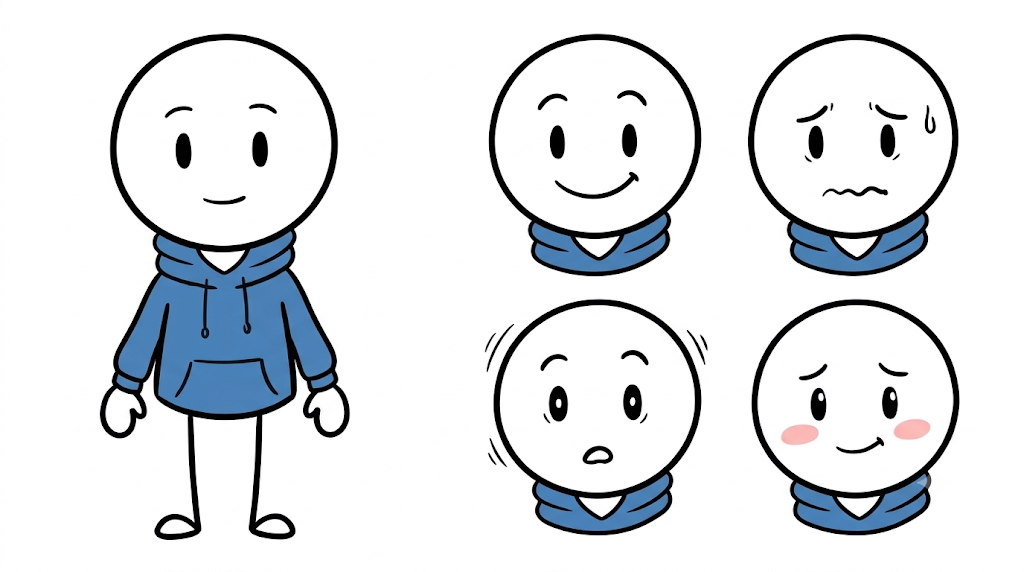
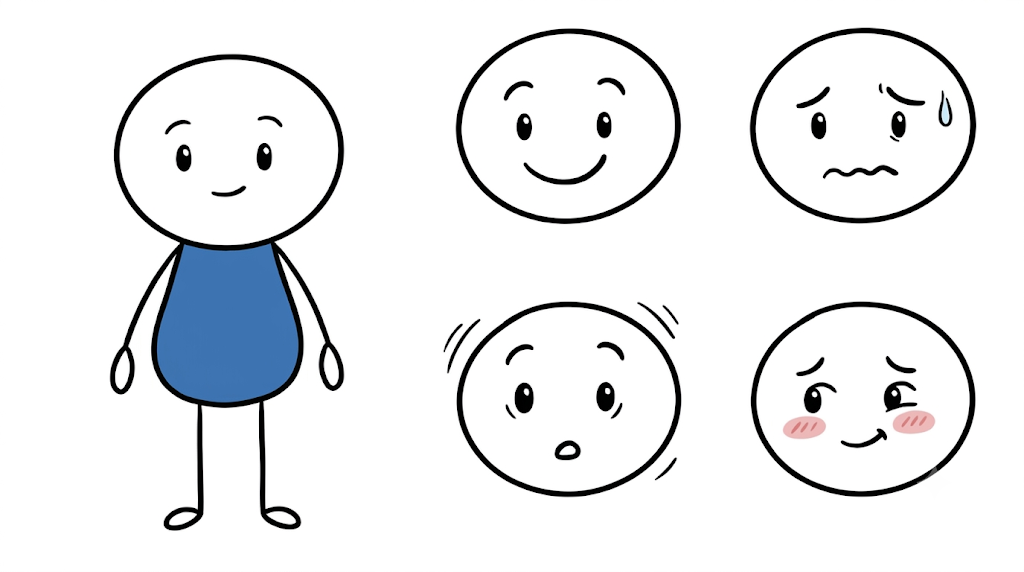
docs(nhân vật): đổi Max sang thân khối xanh, tay chân nét que
- Mẫu mới kho-mau/_mau-nhan-vat/max-sheet.png: đầu bầu dục trắng, thân một
  khối xanh #3D73B1 hình quả trứng (không chi tiết quần áo), tay và chân đều
  là nét que, bàn tay / bàn chân bầu dục trắng
- Bỏ bản hoodie xanh #4A81B7: tay áo khó làm cử động; tay que để code vẽ và
  xoay khớp trực tiếp
- Cập nhật gui-muse/CHARACTER-BRIEF.md, docs/04, docs/10 (bộ phận ghép chỉ
  còn thân cần ảnh), docs/13, CLAUDE.md theo thiết kế mới

diff --git a/docs/13-KE-HOACH-KHO-HINH.md b/docs/13-KE-HOACH-KHO-HINH.md
@@ -20,7 +20,7 @@ Số liệu nền (đếm từ 2 kịch bản "fortune tellers", ~10 phút, ~120
 4. Dán **khối lô** (mục 4). Muse vẽ lần lượt **mỗi lần trả lời một ảnh**, ghi dòng `FILE: ...` trước ảnh.
 5. Sau mỗi ảnh gõ:
    - `ok` → ảnh đạt, Muse làm mục kế tiếp;
-   - `redo: <lý do ngắn>` → vẽ lại mục đó (vd. `redo: shadow under feet`, `redo: hoodie must be blue #4A81B7`);
+   - `redo: <lý do ngắn>` → vẽ lại mục đó (vd. `redo: shadow under feet`, `redo: body must be plain blue #3D73B1`);
    - `skip` → bỏ qua, ghi lại để làm sau.
 6. Tải ảnh về (bản đầy đủ), **đổi tên đúng dòng `FILE:`** (chỉ lấy phần tên, không có thư mục), lưu vào:
    - nhân vật → `kho-mau/_cho-xu-ly/nhan-vat/`
@@ -46,8 +46,8 @@ PROTOCOL
 
 STYLE BIBLE (never break)
 - Flat 2D vector cartoon, thick uniform black outlines (same weight everywhere), flat colors, NO gradients, NO shading, NO shadows (not even under feet), NO texture, NO paper grain.
-- Palette: blue #4A81B7 (reserved for Max's hoodie only), navy #1F2A44, teal #2EC4B6, orange #FF7A1A, mustard #F2B33D, coral #E8735A, off-white #F5F1E8, black #111111, plus muted accents: soft green #4CAF50, soft red #E53935, warm yellow #FFC93C, soft pink #F4A7B9, light grey #BDBDBD, charcoal #4A4A4A, beige #E8D5B5.
-- Characters: clean stick figures with a big white circle head (about 40% of height, no hair unless specified, no ears, no nose), small solid black vertical oval eyes, thin curved eyebrows, one-line mouth, white mitten hands, thin black stick legs, small white oval shoes. Always match the attached character sheet exactly.
+- Palette: blue #3D73B1 (reserved for Max's body only), navy #1F2A44, teal #2EC4B6, orange #FF7A1A, mustard #F2B33D, coral #E8735A, off-white #F5F1E8, black #111111, plus muted accents: soft green #4CAF50, soft red #E53935, warm yellow #FFC93C, soft pink #F4A7B9, light grey #BDBDBD, charcoal #4A4A4A, beige #E8D5B5.
+- Characters: very simple stick figures: a big white oval head (about 40% of height, no hair unless specified, no ears, no nose, no neck), small solid black vertical oval eyes, thin curved eyebrows, one-line mouth, one plain colored rounded egg-shaped body, thin black stick arms and legs, small white oval hands and feet. Always match the attached character sheet exactly.
 - Characters, props, charts, symbols: ONE subject per image, centered, full subject visible, generous empty margin, PURE WHITE background #FFFFFF, square 1:1.
 - Backgrounds (only when the batch says BACKGROUND): wide 16:9, off-white #F5F1E8 base, thin light grey #BDBDBD outlines, very sparse details, empty center and lower half for characters, no people.
 - NO text, letters, numbers, logos, brand names, flags, watermarks or borders anywhere. Screens, signs, papers, labels stay blank or use simple lines/shapes.
@@ -61,32 +61,32 @@ Reply "ready" and wait for the first batch.
 
 ## 2b. Ảnh mẫu nhân vật — định dạng "bảng nhân vật"
 
-Mọi nhân vật làm theo **đúng định dạng bảng dưới đây**: ảnh ngang 16:9, **bên trái một hình toàn thân đứng thẳng nhìn thẳng**, **bên phải lưới 2×2 bốn đầu biểu cảm** có cổ áo, nền trắng, không chữ. Bảng này là "giấy khai sinh" của nhân vật: làm một lần, chốt, rồi **đính kèm vào mọi lần vẽ sau** để Muse giữ đúng mặt, áo, nét vẽ.
+Mọi nhân vật làm theo **đúng định dạng bảng dưới đây**: ảnh ngang 16:9, **bên trái một hình toàn thân đứng thẳng nhìn thẳng**, **bên phải lưới 2×2 bốn đầu biểu cảm** (chỉ đầu, không thân), nền trắng, không chữ. Bảng này là "giấy khai sinh" của nhân vật: làm một lần, chốt, rồi **đính kèm vào mọi lần vẽ sau** để Muse giữ đúng mặt, thân, nét vẽ.
 
 **Max đã chốt (2026-11-14)** — `kho-mau/_mau-nhan-vat/max-sheet.png` (bản sao gửi Muse: `gui-muse/IMAGE-1-max-sheet.png`):
 
 ![Max — bảng nhân vật đã chốt](../kho-mau/_mau-nhan-vat/max-sheet.png)
 
 Đặc điểm (đã chép vào khối `CHARACTER SPEC` bên dưới):
-- **Đầu**: hình tròn trắng to, viền đen dày, khoảng 40% chiều cao, rộng hơn vai; **không tóc, không tai, không mũi**.
+- **Đầu**: bầu dục trắng to (hơi bè ngang), viền đen mảnh, khoảng 40% chiều cao, rộng hơn thân; **không tóc, không tai, không mũi, không cổ**.
 - **Mặt**: mắt là hai bầu dục đen đặc nhỏ dựng đứng; lông mày là nét cong mảnh; miệng một nét.
-- **Biểu cảm thêm**: má hồng bầu dục (ngượng), giọt mồ hôi viền đen (lo), nét rung cong hai bên đầu (sốc).
-- **Áo**: hoodie xanh `#4A81B7` (đo từ ảnh), mũ gập quanh cổ như cổ áo, **cổ chữ V trắng**, **hai dây rút**, túi kangaroo, gấu và cổ tay bo.
-- **Tay chân**: tay găng trắng có ngón cái; chân là hai nét que đen thẳng; giày bầu dục trắng viền đen.
-- **Nét vẽ**: viền đen dày, sạch, đều; màu phẳng; không bóng.
+- **Biểu cảm thêm**: má hồng bầu dục `#EDBBBC` (ngượng), giọt mồ hôi xanh nhạt `#C9E8FA` (lo), nét rung cong hai bên đầu (sốc).
+- **Thân**: một khối xanh `#3D73B1` (đo từ ảnh) bo tròn hình quả trứng / quả lê — hẹp ở chỗ nối đầu, tròn bè ở dưới; khoảng 1/3 chiều cao; **không chi tiết quần áo**.
+- **Tay chân**: đều là **nét que đen mảnh**; tay mọc từ hai bên phía trên thân; bàn tay là bầu dục trắng nhỏ dựng đứng, bàn chân là bầu dục trắng nằm ngang, viền đen.
+- **Nét vẽ**: viền đen mảnh-vừa, sạch, đều; màu phẳng; không bóng.
 
-Màu xanh `#4A81B7` dành riêng cho áo Max — nhân vật khác không mặc.
+Màu xanh `#3D73B1` dành riêng cho thân Max — nhân vật khác không dùng. Tay chân que nên code vẽ và xoay khớp dễ (`docs/10`).
 
 Khối mô tả dán kèm **mọi** lô có Max (đặt ngay dưới dòng `BATCH ...`):
 
 ```text
 CHARACTER SPEC — MAX (match the attached sheet exactly):
-clean stick figure. Head: a big perfect white circle with a thick black outline, about 40% of total height, wider than the shoulders. NO hair, NO ears, NO nose.
+very simple stick figure. Head: a big white oval (slightly wider than tall) with a clean black outline, about 40% of total height, wider than the body. NO hair, NO ears, NO nose, NO neck.
 Eyes: two small solid black vertical ovals. Eyebrows: short thin curved black strokes. Mouth: one thin black line.
-Emotion extras: soft pink oval blush (shy), a small outlined sweat drop (anxious), short curved shake lines beside the head (shocked).
-Hoodie: medium blue #4A81B7, hood folded around the neck like a collar, small white V neckline, two drawstrings, front kangaroo pocket, ribbed hem and cuffs.
-Hands: white rounded mitten hands with a small thumb. Legs: two thin straight black stick lines. Feet: small white oval shoes.
-Thick clean uniform black outlines, flat colors, no shading, no shadows. Every white area enclosed by a closed black outline.
+Emotion extras: soft pink oval blush (shy), a small light-blue sweat drop (anxious), short curved shake lines beside the head (shocked).
+Body: one plain blue #3D73B1 rounded egg / pear shape (narrow at the top, round at the bottom), about 1/3 of the height, NO clothing details.
+Arms: two thin black stick lines from the upper sides of the body; hands: small white vertical ovals. Legs: two thin black stick lines; feet: small white horizontal ovals.
+Clean uniform black outlines, flat colors, no shading, no shadows. Every white area enclosed by a closed black outline.
 ```
 
 Mô tả đầy đủ, dạng tài liệu gửi kèm ảnh: `gui-muse/CHARACTER-BRIEF.md`.
@@ -135,25 +135,25 @@ Redraw only the LEFT full-body Max from the attached sheet as a single image, id
 1. FILE: nhan-vat/max__goc__dung.png
 ```
 
-**0B — Bảng biểu cảm Max** (đính kèm `max-sheet.png`, dán khối `CHARACTER SPEC — MAX`). Mỗi bảng là lưới 2×2 đầu có cổ áo hoodie xanh, giống nửa phải của `max-sheet.png`, đủ 12 biểu cảm còn lại. Lô 1–2 dùng các bảng này làm tham chiếu biểu cảm.
+**0B — Bảng biểu cảm Max** (đính kèm `max-sheet.png`, dán khối `CHARACTER SPEC — MAX`). Mỗi bảng là lưới 2×2 chỉ có đầu, giống nửa phải của `max-sheet.png`, đủ 12 biểu cảm còn lại. Lô 1–2 dùng các bảng này làm tham chiếu biểu cảm.
 
 ```text
-BATCH 0B — EXPRESSION SHEETS (wide 16:9, pure white background, no text, no labels). Each sheet is a 2x2 grid of head close-ups of the SAME Max as the attached sheet (white circle head, blue hoodie collar visible), exactly like the right side of the attached sheet: evenly spaced, same size, same framing. Expressions clear and readable using eyebrows, eye size, mouth and small extras (sweat drops, tears, sparkles, puffs).
+BATCH 0B — EXPRESSION SHEETS (wide 16:9, pure white background, no text, no labels). Each sheet is a 2x2 grid of head close-ups of the SAME Max as the attached sheet (white oval head only, no body), exactly like the right side of the attached sheet: evenly spaced, same size, same framing. Expressions clear and readable using eyebrows, eye size, mouth and small extras (sweat drops, tears, sparkles, puffs).
 1. FILE: max-bieu-cam-1.png — top-left greedy (eyes as small sparkles, eager wide grin) · top-right panicked (bigger eyes, mouth open screaming, sweat drops flying) · bottom-left regretful (eyes looking down, sad mouth) · bottom-right confident (smirk, one eyebrow raised)
-2. FILE: max-bieu-cam-2.png — top-left confused (one eyebrow up, wavy mouth, head tilted) · top-right thinking (eyes up to the side, a white mitten hand on the chin) · bottom-left sad (droopy eyebrows, downturned mouth, one tear) · bottom-right angry (sharp slanted eyebrows, gritted-teeth line, small steam puff)
+2. FILE: max-bieu-cam-2.png — top-left confused (one eyebrow up, wavy mouth, head tilted) · top-right thinking (eyes looking up to the side, small flat mouth) · bottom-left sad (droopy eyebrows, downturned mouth, one tear) · bottom-right angry (sharp slanted eyebrows, gritted-teeth line, small steam puff)
 3. FILE: max-bieu-cam-3.png — top-left relieved (eyes closed as curves, gentle smile, small exhale puff) · top-right smug (half-closed eyes, one-sided smirk) · bottom-left excited (sparkling eyes, huge open smile) · bottom-right bored (half-closed flat eyes, flat mouth)
 ```
 
 `max-sheet.png` đã có 4 biểu cảm: vui (`vui`), lo âu với miệng lượn sóng + giọt mồ hôi (`lo-lang`), sốc (`soc`), ngượng má hồng. `so-hai` dùng mặt `lo-lang` đẩy mạnh hơn (mắt to hơn, người co lại).
 
-**0C — Bảng nhân vật phụ** (mỗi nhân vật một cuộc trò chuyện; đính kèm `max-sheet.png` làm chuẩn phong cách, tuyệt đối không mặc hoodie xanh):
+**0C — Bảng nhân vật phụ** (mỗi nhân vật một cuộc trò chuyện; đính kèm `max-sheet.png` làm chuẩn phong cách, tuyệt đối không dùng thân xanh):
 
 ```text
-BATCH 0C — CHARACTER SHEET for a NEW character, in exactly the same style and the SAME LAYOUT as the attached Max sheet (wide 16:9: LEFT full body standing facing the viewer, arms relaxed; RIGHT 2x2 head close-up grid with collar visible: happy, anxious, shocked, confused). Same stick-figure build, same big white circle head, same small black oval eyes and thin eyebrows, same white mitten hands, stick legs and white oval shoes, same line weight. Pure white background, no text, no labels. The new character must look clearly different from Max at a glance and must NOT wear the blue #4A81B7 hoodie.
+BATCH 0C — CHARACTER SHEET for a NEW character, in exactly the same style and the SAME LAYOUT as the attached Max sheet (wide 16:9: LEFT full body standing facing the viewer, arms relaxed; RIGHT 2x2 head-only close-up grid: happy, anxious, shocked, confused). Same build: big white oval head, same small black oval eyes and thin eyebrows, one plain colored rounded egg-shaped body, thin stick arms and legs, small white oval hands and feet, same line weight. Pure white background, no text, no labels. The new character must look clearly different from Max at a glance and its body must NOT be blue #3D73B1.
 ```
 Rồi chọn **một** dòng dưới (mỗi lần một nhân vật):
 ```text
-1. FILE: brainy-sheet.png — Brainy, Max's inner voice: a small soft-pink #F4A7B9 cartoon brain with a few fold lines instead of a round head, the same small oval eyes and thin eyebrows, thin black stick arms and legs with white mitten hands. Curious, slightly mischievous. Clearly a cartoon brain, not a doctor (no glasses, no lab coat).
+1. FILE: brainy-sheet.png — Brainy, Max's inner voice: a small soft-pink #F4A7B9 cartoon brain with a few fold lines instead of a round head, the same small oval eyes and thin eyebrows, thin black stick arms and legs with small white oval hands and feet. Curious, slightly mischievous. Clearly a cartoon brain, not a doctor (no glasses, no lab coat).
 2. FILE: ban-sheet.png — Sam, Max's friend: a small tuft of curly black hair on top of the round head, mustard #F2B33D crew-neck sweater with no hood.
 3. FILE: sep-sheet.png — the boss: slightly taller, neat grey hair at the sides of the round head, charcoal #4A4A4A blazer over a white shirt with a soft red #E53935 tie.
 4. FILE: nguoi-hen-sheet.png — Ava, Max's date / partner: a simple black ponytail on the round head, coral #E8735A cardigan.
@@ -165,7 +165,7 @@ Chốt từng bảng xong thì xin ảnh đơn 1:1 toàn thân: `nhan-vat/brainy
 Chia làm 4 cuộc trò chuyện theo bảng biểu cảm: mục 1, 3, 8, 14 đi với `max-sheet.png`; mục 2, 4, 5, 6 với `max-bieu-cam-1.png`; mục 7, 9, 10, 11 với `max-bieu-cam-2.png`; mục 12, 13, 15, 16 với `max-bieu-cam-3.png`. Dán khối `CHARACTER SPEC — MAX` dưới dòng `BATCH`.
 
 ```text
-BATCH 1 — Max, same character as the attached sheet; copy the matching face from the attached expression sheet (same white circle head, small oval eyes, blue #4A81B7 hoodie, mitten hands, stick legs, white oval shoes). Pose for all: standing, facing the viewer, arms relaxed (arms may move only if the expression needs it). The face is minimal, so push each emotion with body language too.
+BATCH 1 — Max, same character as the attached sheet; copy the matching face from the attached expression sheet (same white oval head, small oval eyes, plain blue #3D73B1 egg-shaped body, stick arms and legs, white oval hands and feet). Pose for all: standing, facing the viewer, arms relaxed (arms may move only if the expression needs it). The face is minimal, so push each emotion with body language too.
 1. FILE: nhan-vat/max__vui__dung.png — happy, big simple smile
 2. FILE: nhan-vat/max__tham-lam__dung.png — greedy, wide hungry grin, sparkly eyes, leaning forward
 3. FILE: nhan-vat/max__so-hai__dung.png — fearful, eyes wide, small wavy open mouth, shrinking back
@@ -265,7 +265,7 @@ BATCH 3D — Ava, same character as the attached Ava reference.
 5. FILE: nhan-vat/nguoi-hen__hao-hung__dung.png
 6. FILE: nhan-vat/nguoi-hen__vui__ngoi.png — sitting at a small café table, smiling
 
-BATCH 3E — crowds, same stick-figure style as the attached Max sheet (white circle heads, small oval eyes, stick legs). 7 simple background adults, a few with simple hair shapes, muted tops (grey, beige, olive, charcoal, mustard, teal — NO blue #4A81B7). Wide 16:9 for these five.
+BATCH 3E — crowds, same stick-figure style as the attached Max sheet (white oval heads, small oval eyes, rounded egg-shaped bodies, stick arms and legs). 7 simple background adults, a few with simple hair shapes, bodies in muted colors (grey, beige, olive, charcoal, mustard, teal — NO blue #3D73B1). Wide 16:9 for these five.
 1. FILE: nhan-vat/dam-dong__hao-hung__chay.png — excited, all running to the right
 2. FILE: nhan-vat/dam-dong__hoang-loan__bo-chay.png — panicked, running away to the left
 3. FILE: nhan-vat/dam-dong__hao-hung__nhin-len.png — excited, all looking up at the same point
@@ -583,7 +583,7 @@ Gợi ý lô theo nhóm chủ đề (`docs/05` mục danh sách 30 chủ đề) 
 
 | Kiểm | Lỗi hay gặp → câu `redo:` |
 |---|---|
-| Đúng nhân vật | `redo: hoodie must be blue #4A81B7 / head must be a big white circle, about 40% of height / no hair, no nose` |
+| Đúng nhân vật | `redo: body must be one plain blue #3D73B1 egg shape / arms must be stick lines / head must be a big white oval, about 40% of height / no hair, no nose` |
 | Nền trắng sạch, không bóng | `redo: pure white background, no shadow under feet` |
 | Không chữ / số / logo | `redo: remove all text and numbers` |
 | Nét đều, viền kín | `redo: uniform thick outlines, close all outlines` |

diff --git a/gui-muse/CHARACTER-BRIEF.md b/gui-muse/CHARACTER-BRIEF.md
@@ -1,7 +1,7 @@
-# CHARACTER BRIEF — "Max", the blue-hoodie stick figure (original YouTube psychology animation)
+# CHARACTER BRIEF — "Max", the blue-body stick figure (original YouTube psychology animation)
 
 Attached with this document:
-- **IMAGE-1-max-sheet.png** — the APPROVED character sheet of Max. This is the single source of truth: copy it exactly (head, face, hoodie, hands, legs, feet, line style).
+- **IMAGE-1-max-sheet.png** — the APPROVED character sheet of Max. This is the single source of truth: copy it exactly (head, face, blue body, stick arms and legs, hands, feet, line style).
 
 You are the illustrator for an original YouTube channel of animated psychology explainers for ADULTS (work, money, relationships, habits, social media). Read this whole brief, then reply "ready" and wait. I will ask for one step at a time.
 
@@ -21,18 +21,19 @@ You are the illustrator for an original YouTube channel of animated psychology e
 
 ## 2. Character spec — MAX (exactly as IMAGE-1)
 
-An ordinary adult office worker drawn as a clean, friendly stick figure. Simple for clarity — not a kids' character.
+An ordinary adult office worker drawn as a very simple, friendly stick figure. Simple for clarity — not a kids' character.
 
-- **Head:** a big perfect circle, pure white fill, thick black outline. The head is about 40% of his total height and clearly wider than his shoulders. **No hair, no ears, no nose.**
-- **Eyes:** two small solid black vertical ovals, set a little apart, slightly above the middle of the face.
+- **Head:** a big white oval, slightly wider than tall, thin clean black outline. About 40% of his total height and clearly wider than his body. **No hair, no ears, no nose, no neck.**
+- **Eyes:** two small solid black vertical ovals, set a little apart, around the middle of the face.
 - **Eyebrows:** short thin black curved strokes above the eyes — they carry most of the emotion.
-- **Mouth:** one thin black line (a small curve when calm, a wide curve when happy, a wavy line when anxious, a small open oval when shocked).
-- **Extras for emotions:** soft pink oval blush on both cheeks (shy / embarrassed), a small sweat drop with a black outline (anxious), short curved shake lines beside the head (shocked).
-- **Hoodie (signature):** medium blue **`#4A81B7`** hoodie, thick black outline, the hood folded around the neck like a collar, a small **white V** at the neckline, **two drawstrings**, a front **kangaroo pocket**, a ribbed hem and cuffs. The hoodie covers the torso and arms.
-- **Hands:** white rounded mitten hands with a small thumb, black outline.
-- **Legs:** two thin straight black stick lines coming out of the hoodie hem.
-- **Feet:** small white rounded oval shoes with a black outline.
-- **Line style:** thick, clean, uniform black outlines; flat colors only (white, the blue hoodie, black, pink blush). No shading, no gradients, no shadows, no texture.
+- **Mouth:** one thin black line (small curve when calm, wide curve when happy, wavy line when anxious, small open oval when shocked).
+- **Emotion extras:** soft pink oval blush on both cheeks (shy / embarrassed), a small light-blue sweat drop with a thin outline (anxious), short curved shake lines beside the head (shocked).
+- **Body (signature):** one solid **blue `#3D73B1`** rounded shape, like an egg / pear — narrower at the top where it meets the head, wider and round at the bottom. Thin black outline. **No clothing details** (no collar, no pocket, no buttons). About 1/3 of his height, narrower than the head.
+- **Arms:** two **thin black stick lines** starting from the upper sides of the blue body, same weight as the legs.
+- **Hands:** small white vertical ovals with a thin black outline (no fingers).
+- **Legs:** two thin straight black stick lines from the bottom of the body.
+- **Feet:** small white horizontal ovals with a thin black outline.
+- **Line style:** thin-to-medium clean black lines, all the same weight; flat colors only (white, the blue body, black, pink blush, light-blue sweat). No shading, no gradients, no shadows, no texture.
 
 ---
 
@@ -42,7 +43,7 @@ An ordinary adult office worker drawn as a clean, friendly stick figure. Simple 
 For animation, the character must be on an empty background so it can be removed automatically.
 - **Square 1:1, pure white background `#FFFFFF`**, one character alone, full body, centered, generous empty margin.
 - **No shadow, no ground line, no scene, no texture.**
-- Every white area (head, hands, feet, V neckline) must be fully enclosed by a closed black outline so it never merges with the white background.
+- Every white area (head, hands, feet) must be fully enclosed by a closed black outline so it never merges with the white background.
 - Props he holds: same clean line style, flat colors, simple and readable.
 
 ### B. BACKGROUNDS (only when I say BACKGROUND)
@@ -51,7 +52,7 @@ For animation, the character must be on an empty background so it can be removed
 
 ### Rules for every image
 - **No text, letters, numbers, labels, logos, watermarks or borders.** Screens, signs and papers stay blank or use simple shapes.
-- Colors: the blue `#4A81B7` is **reserved for Max's hoodie** — no other character wears it. Other colors to use freely: navy `#1F2A44`, teal `#2EC4B6`, orange `#FF7A1A`, mustard `#F2B33D`, coral `#E8735A`, soft green `#4CAF50`, soft red `#E53935`, soft pink `#F4A7B9`, light grey `#BDBDBD`, charcoal `#4A4A4A`, beige `#E8D5B5`, black, white.
+- Colors: the blue `#3D73B1` is **reserved for Max's body** — no other character uses it. Other colors to use freely: navy `#1F2A44`, teal `#2EC4B6`, orange `#FF7A1A`, mustard `#F2B33D`, coral `#E8735A`, soft green `#4CAF50`, soft red `#E53935`, soft pink `#F4A7B9`, light grey `#BDBDBD`, charcoal `#4A4A4A`, beige `#E8D5B5`, black, white.
 - Adult everyday world. No gore, no real people, no existing characters or brands.
 
 ---
@@ -59,8 +60,8 @@ For animation, the character must be on an empty background so it can be removed
 ## 4. Sheet format (reference sheets only — same layout as IMAGE-1)
 
 Wide **16:9**, pure white background, no text:
-- **LEFT:** the character full body, standing, facing the viewer, arms relaxed, friendly neutral face. Only ONE full-body figure.
-- **RIGHT:** a **2×2 grid** of head close-ups with the collar visible (like IMAGE-1), all the same size, evenly spaced.
+- **LEFT:** the character full body, standing, facing the viewer, arms hanging relaxed, friendly neutral face. Only ONE full-body figure.
+- **RIGHT:** a **2×2 grid of head-only close-ups** (no body, like IMAGE-1), all the same size, evenly spaced.
 
 ---
 
@@ -69,28 +70,28 @@ Wide **16:9**, pure white background, no text:
 ### STEP 1 — Max single master image
 `FILE: max__goc__dung.png` — only the LEFT full-body Max from IMAGE-1, redrawn as a CHARACTER CUT-OUT (section 3A). Identical design.
 
-### STEP 2 — Max expression sheets (16:9, 2×2 head close-ups with the blue hoodie collar, exactly like the right side of IMAGE-1; no full-body figure)
-- `FILE: max-bieu-cam-1.png` — greedy (eyes as small sparkles, eager wide grin) · panicked (eyes bigger, mouth open screaming, sweat drops flying) · regretful (eyes looking down, sad mouth, eyebrows slanted down) · confident (smirk, one eyebrow raised)
-- `FILE: max-bieu-cam-2.png` — confused (one eyebrow up, wavy mouth, head slightly tilted) · thinking (eyes looking up to the side, one mitten hand on the chin) · sad (droopy eyebrows, downturned mouth, one tear) · angry (sharp slanted eyebrows, gritted-teeth line, small steam puff)
+### STEP 2 — Max expression sheets (16:9, 2×2 head-only close-ups exactly like the right side of IMAGE-1; no body)
+- `FILE: max-bieu-cam-1.png` — greedy (eyes as small sparkles, eager wide grin) · panicked (bigger eyes, mouth open screaming, sweat drops flying) · regretful (eyes looking down, sad mouth) · confident (smirk, one eyebrow raised)
+- `FILE: max-bieu-cam-2.png` — confused (one eyebrow up, wavy mouth, head tilted) · thinking (eyes looking up to the side, small flat mouth) · sad (droopy eyebrows, downturned mouth, one tear) · angry (sharp slanted eyebrows, gritted-teeth line, small steam puff)
 - `FILE: max-bieu-cam-3.png` — relieved (eyes closed as curves, gentle smile, small exhale puff) · smug (half-closed eyes, one-sided smirk) · excited (sparkling eyes, huge open smile) · bored (half-closed flat eyes, flat mouth)
 
 (Happy, anxious, shocked and embarrassed already exist in IMAGE-1.)
 
-### STEP 3 — Supporting characters (same stick build, same round white head and face style, same line weight, sheet format; **must NOT wear the blue hoodie**)
+### STEP 3 — Supporting characters (same build: big white oval head, same face style, one colored rounded body shape, stick arms and legs, white oval hands and feet, same line weight; sheet format; **body must NOT be blue `#3D73B1`**)
 Right grid for each: happy · anxious · shocked · confused.
-- `FILE: brainy-sheet.png` — **Brainy**, Max's inner voice: a small soft-pink `#F4A7B9` cartoon brain with a few fold lines instead of a round head, the same small oval eyes and thin eyebrows, thin black stick arms and legs with white mitten hands. Clearly a cartoon brain — not a doctor (no glasses, no lab coat).
-- `FILE: ban-sheet.png` — **Sam**, Max's friend: same build, a small tuft of curly black hair on top of the round head, a mustard `#F2B33D` crew-neck sweater (no hood), white mitten hands, stick legs, white shoes.
-- `FILE: sep-sheet.png` — **the boss**: same build but slightly taller, neat grey hair at the sides of the round head, charcoal `#4A4A4A` blazer over a white shirt with a soft red `#E53935` tie.
-- `FILE: nguoi-hen-sheet.png` — **Ava**, Max's date / partner: same build, a simple black ponytail on the round head, a coral `#E8735A` cardigan.
+- `FILE: brainy-sheet.png` — **Brainy**, Max's inner voice: a small soft-pink `#F4A7B9` cartoon brain with a few fold lines as the whole head-and-body, the same small oval eyes and thin eyebrows, thin stick arms and legs with white oval hands and feet. Clearly a cartoon brain — not a doctor (no glasses, no lab coat).
+- `FILE: ban-sheet.png` — **Sam**, Max's friend: mustard `#F2B33D` body, a small tuft of curly black hair on top of the oval head.
+- `FILE: sep-sheet.png` — **the boss**: charcoal `#4A4A4A` body, slightly taller, a thin soft red `#E53935` tie drawn on the body, neat grey hair at the sides of the head.
+- `FILE: nguoi-hen-sheet.png` — **Ava**, Max's date / partner: coral `#E8735A` body, a simple black ponytail on the head.
 
 After each approved sheet: the LEFT full-body figure as a CHARACTER CUT-OUT — `brainy__goc__dung.png`, `ban__goc__dung.png`, `sep__goc__dung.png`, `nguoi-hen__goc__dung.png`.
 
 ### STEP 4 — Max production cut-outs (section 3A)
-Filename pattern: `max__<expression>__<pose>.png`. Copy the face from IMAGE-1 or the matching expression sheet.
+Filename pattern: `max__<expression>__<pose>.png`. Copy the face from IMAGE-1 or the matching expression sheet. The face is minimal, so show the emotion with the arms and body too.
 
 Expressions: `vui` happy · `tham-lam` greedy · `so-hai` scared · `hoang-loan` panicked · `hoi-han` regretful · `tu-tin` confident · `boi-roi` confused · `soc` shocked · `suy-nghi` thinking · `buon` sad · `gian` angry · `nhe-nhom` relieved · `dac-y` smug · `lo-lang` anxious · `hao-hung` excited · `chan` bored.
 
-Poses: `dung` standing, facing the viewer · `ngoi-may-tinh` sitting on a simple chair at a simple desk with an open laptop · `cam-dien-thoai` holding a smartphone in front of the face (blank screen or a simple line chart) · `di-bo` walking to the right, side view · `chi-tay` pointing to the right with one arm fully extended · `om-dau` both hands holding the head · `ngoi` sitting on a simple chair or sofa.
+Poses: `dung` standing, facing the viewer · `ngoi-may-tinh` sitting on a simple chair at a simple desk with an open laptop · `cam-dien-thoai` holding a smartphone in front of the face (blank screen or a simple line chart) · `di-bo` walking to the right, side view · `chi-tay` pointing to the right with one stick arm fully extended · `om-dau` both hands holding the head · `ngoi` sitting on a simple chair or sofa.
 
 I will send the exact list of filenames to draw.
 
@@ -98,8 +99,9 @@ I will send the exact list of filenames to draw.
 
 ## 6. Common fixes I may ask for
 
-- `redo: hoodie must be blue #4A81B7 with hood collar, white V, two drawstrings, kangaroo pocket`
-- `redo: head must be a big white circle, about 40% of height` · `redo: no hair, no ears, no nose`
+- `redo: body must be one plain blue #3D73B1 rounded egg shape, no clothing details`
+- `redo: arms must be thin black stick lines, hands small white ovals`
+- `redo: head must be a big white oval, about 40% of height` · `redo: no hair, no ears, no nose, no neck`
 - `redo: eyes must be small solid black vertical ovals`
 - `redo: legs are thin black stick lines, feet small white ovals`
 - `redo: pure white background, no shadow, no ground`

diff --git a/docs/04-TAO-ANH-GEMINI.md b/docs/04-TAO-ANH-GEMINI.md
@@ -26,23 +26,23 @@ Nếu ảnh ra nền hơi xám / có bóng: gửi lại câu *"Same image, but p
 
 Max là nhân vật chính, xuất hiện ở hầu hết cảnh. Phải có **một ảnh gốc** chuẩn rồi mọi ảnh sau đều dựa vào nó.
 
-**Thiết kế đã chốt (2026-11-14, thay bản chibi hoodie cam ngày 2026-11-10)**: bảng nhân vật **`kho-mau/_mau-nhan-vat/max-sheet.png`** — người que sạch nét:
-- đầu tròn trắng to (~40% chiều cao, rộng hơn vai), không tóc / tai / mũi;
+**Thiết kế đã chốt (2026-11-14, thay bản chibi hoodie cam ngày 2026-11-10)**: bảng nhân vật **`kho-mau/_mau-nhan-vat/max-sheet.png`** — người que tối giản:
+- đầu bầu dục trắng to (~40% chiều cao, rộng hơn thân), không tóc / tai / mũi / cổ;
 - mắt là hai bầu dục đen nhỏ dựng đứng, lông mày nét cong mảnh, miệng một nét;
-- **hoodie xanh `#4A81B7`**: mũ gập quanh cổ, cổ chữ V trắng, hai dây rút, túi kangaroo;
-- tay găng trắng có ngón cái, chân là hai nét que, giày bầu dục trắng;
-- biểu cảm thêm: má hồng, giọt mồ hôi, nét rung khi sốc.
+- **thân là một khối xanh `#3D73B1`** bo tròn hình quả trứng / quả lê (hẹp trên, tròn dưới), không chi tiết quần áo;
+- **tay và chân đều là nét que mảnh**, bàn tay và bàn chân là bầu dục trắng nhỏ viền đen;
+- biểu cảm thêm: má hồng, giọt mồ hôi xanh nhạt, nét rung khi sốc.
 
-Màu xanh `#4A81B7` dành riêng cho áo Max. `V1-max.png` / `V2-max.png` chỉ còn là lịch sử. Mô tả đầy đủ bằng tiếng Anh (dán được cho Gemini / Muse): `gui-muse/CHARACTER-BRIEF.md` mục 2.
+Tay que giúp code vẽ và xoay khớp dễ (`docs/10`). Màu xanh `#3D73B1` dành riêng cho thân Max. `V1-max.png` / `V2-max.png` chỉ còn là lịch sử. Mô tả đầy đủ bằng tiếng Anh (dán được cho Gemini / Muse): `gui-muse/CHARACTER-BRIEF.md` mục 2.
 
 ### Bước 2.1 — Bản gốc (đã có)
 
 Bảng `max-sheet.png` là tham chiếu gốc. Ảnh đơn toàn thân dùng trong video: mở cuộc trò chuyện mới, **đính kèm `max-sheet.png`**, gửi:
 
 ```text
-Using the attached character sheet, redraw ONLY the left full-body figure (Max) exactly as designed: big white circle head, small black vertical oval eyes, thin curved eyebrows, blue #4A81B7 hoodie with folded hood collar, white V neckline, two drawstrings and kangaroo pocket, white mitten hands, thin black stick legs, small white oval shoes.
+Using the attached character sheet, redraw ONLY the left full-body figure (Max) exactly as designed: big white oval head, small black vertical oval eyes, thin curved eyebrows, one plain blue #3D73B1 rounded egg-shaped body, thin black stick arms with small white oval hands, thin black stick legs with small white oval feet.
 Standing straight, facing the viewer, arms relaxed, friendly neutral expression. ONLY ONE figure, full body, centered, generous empty margin.
-Thick clean uniform black outlines, flat colors, no shading, no shadows, no ground line. Every white area enclosed by a closed black outline.
+Clean uniform black outlines, flat colors, no shading, no shadows, no ground line. Every white area enclosed by a closed black outline.
 Pure white background (#FFFFFF). No text, no letters, no numbers, no watermark, no border. Square 1:1 image.
 ```
 
@@ -62,7 +62,7 @@ Mẹo:
 ### Khuôn prompt cho Max (thay 2 chỗ `{...}`)
 
 ```text
-Using the attached character sheet, draw the SAME character Max: big white circle head (about 40% of height, no hair, no ears, no nose), small solid black vertical oval eyes, thin curved eyebrows, one-line mouth, blue #4A81B7 hoodie with folded hood collar, white V neckline, two drawstrings and kangaroo pocket, white mitten hands, thin black stick legs, small white oval shoes, same thick clean black outlines. Keep the exact same flat 2D style. Only one figure. Every white area enclosed by a closed black outline.
+Using the attached character sheet, draw the SAME character Max: big white oval head (about 40% of height, no hair, no ears, no nose, no neck), small solid black vertical oval eyes, thin curved eyebrows, one-line mouth, one plain blue #3D73B1 rounded egg-shaped body with no clothing details, thin black stick arms with small white oval hands, thin black stick legs with small white oval feet, same clean black outlines. Keep the exact same flat 2D style. Only one figure. Every white area enclosed by a closed black outline.
 Expression: {EXPRESSION}, strong and clearly readable.
 Pose: {POSE}.
 Full body visible, centered, generous empty margin. No shading, no shadows, no gradients.
@@ -113,7 +113,7 @@ Tổ hợp đầy đủ 16 × 6 = 96 ảnh — **không cần làm hết**. Làm
 `max__lo-lang__cam-dien-thoai.png`:
 
 ```text
-Using the attached character sheet, draw the SAME character Max: big white circle head (about 40% of height, no hair, no ears, no nose), small solid black vertical oval eyes, thin curved eyebrows, one-line mouth, blue #4A81B7 hoodie with folded hood collar, white V neckline, two drawstrings and kangaroo pocket, white mitten hands, thin black stick legs, small white oval shoes, same thick clean black outlines. Keep the exact same flat 2D style. Only one figure. Every white area enclosed by a closed black outline.
+Using the attached character sheet, draw the SAME character Max: big white oval head (about 40% of height, no hair, no ears, no nose, no neck), small solid black vertical oval eyes, thin curved eyebrows, one-line mouth, one plain blue #3D73B1 rounded egg-shaped body with no clothing details, thin black stick arms with small white oval hands, thin black stick legs with small white oval feet, same clean black outlines. Keep the exact same flat 2D style. Only one figure. Every white area enclosed by a closed black outline.
 Expression: anxious, worried eyebrows, wobbly mouth, one sweat drop on the head, strong and clearly readable.
 Pose: standing, holding a smartphone in front of the face, the phone screen shows a simple line chart (no numbers, no text).
 Full body visible, centered, generous empty margin. No shading, no shadows, no gradients.
@@ -129,7 +129,7 @@ Tạo bản gốc riêng cho từng nhân vật phụ (một lần), rồi cũng
 
 **Brainy** (bộ não hồng — tiếng nói trong đầu Max, giải thích thiên kiến và kể nghiên cứu; thay vai `chuyen-gia` cũ) — `nhan-vat/brainy__<bieu-cam>__<tu-the>.png`
 ```text
-Using the attached reference image of Max ONLY as a style reference, create a NEW character: Brainy, a small cute pink brain (soft pink, brain folds drawn with a few thick lines), small solid black vertical oval eyes, thin curved black eyebrows, one-line mouth (same face style as Max), thin black stick arms and legs with white mitten hands and small white oval shoes. Curious, slightly mischievous. Clearly a cartoon brain, not a doctor (no glasses, no lab coat). Same flat 2D style, same thick clean black outlines.
+Using the attached reference image of Max ONLY as a style reference, create a NEW character: Brainy, a small cute pink brain (soft pink, brain folds drawn with a few thick lines), small solid black vertical oval eyes, thin curved black eyebrows, one-line mouth (same face style as Max), thin black stick arms and legs with small white oval hands and feet. Curious, slightly mischievous. Clearly a cartoon brain, not a doctor (no glasses, no lab coat). Same flat 2D style, same thick clean black outlines.
 Expression: {EXPRESSION}, strong and clearly readable. Pose: {standing, facing the viewer | pointing up with an idea | panicking with hands on head | arms crossed}.
 Only one figure. Full body, centered, generous margin. No shading, no shadows.
 Pure white background (#FFFFFF). No text, no letters, no numbers, no watermark. Square 1:1 image.
@@ -139,7 +139,7 @@ Pure white background (#FFFFFF). No text, no letters, no numbers, no watermark. 
 
 **Bạn của Max** — `nhan-vat/ban__<bieu-cam>__<tu-the>.png` (dùng khi câu chuyện cần người thứ hai)
 ```text
-Using the attached reference image of Max ONLY as a style reference, create a NEW character: Max's friend Sam, the same stick-figure build and flat 2D style as Max (big white circle head, small black oval eyes, thin eyebrows, white mitten hands, thin stick legs, white oval shoes), plus a small tuft of curly black hair on top and a mustard (#F2B33D) crew-neck sweater with no hood. NOT the blue hoodie. Must look clearly different from Max at a glance.
+Using the attached reference image of Max ONLY as a style reference, create a NEW character: Max's friend Sam, the same build and flat 2D style as Max (big white oval head, small black oval eyes, thin eyebrows, one rounded egg-shaped body, stick arms and legs, small white oval hands and feet), with a mustard (#F2B33D) body and a small tuft of curly black hair on top of the head. NOT blue. Must look clearly different from Max at a glance.
 Expression: friendly smile. Pose: standing, facing the viewer, one hand waving.
 Only one figure. Full body, centered, generous margin. No shading, no shadows.
 Pure white background (#FFFFFF). No text, no letters, no numbers, no watermark. Square 1:1 image.
@@ -147,7 +147,7 @@ Pure white background (#FFFFFF). No text, no letters, no numbers, no watermark. 
 
 **Đám đông** — `nhan-vat/dam-dong__<bieu-cam>__<tu-the>.png` (vd. `dam-dong__hao-hung__chay.png`)
 ```text
-In the same flat 2D stick-figure style as the attached character sheet of Max (big white circle heads, small black oval eyes, thin eyebrows, thin stick legs, thick clean black outlines, flat colors), draw a crowd of 7 simple background people wearing varied muted tops (grey, beige, olive, charcoal, mustard, teal — NO blue, blue #4A81B7 is reserved for Max), a few with simple hair shapes, all slightly different sizes, grouped together.
+In the same flat 2D stick-figure style as the attached character sheet of Max (big white oval heads, small black oval eyes, thin eyebrows, rounded egg-shaped bodies, stick arms and legs, clean black outlines, flat colors), draw a crowd of 7 simple background people with bodies in varied muted colors (grey, beige, olive, charcoal, mustard, teal — NO blue, blue #3D73B1 is reserved for Max), a few with simple hair shapes, all slightly different sizes, grouped together.
 They are all {excited, running to the right in the same direction | panicked, running away to the left | standing and looking up at the same point}.
 No shading, no shadows. Pure white background (#FFFFFF). No text, no letters, no numbers, no watermark.
 16:9 image.

diff --git a/docs/10-NHAN-VAT-GHEP.md b/docs/10-NHAN-VAT-GHEP.md
@@ -137,7 +137,7 @@ Theo quy tắc chung `04-TAO-ANH-GEMINI.md` mục 1 (nền trắng tinh, không 
 
 Đầu (không mặt — mặt là lớp riêng):
 ```text
-Using the attached reference image of Max, draw ONLY his head: the same big white circle with the same thick black outline, completely blank face (no eyes, no mouth, no eyebrows, no blush), no hair, no ears, no nose. No neck, no hoodie collar. Head centered, upright, generous empty margin around it (the head fills about half of the image width).
+Using the attached reference image of Max, draw ONLY his head: the same big white oval with the same clean black outline, completely blank face (no eyes, no mouth, no eyebrows, no blush), no hair, no ears, no nose. No neck, no body. Head centered, upright, generous empty margin around it (the head fills about half of the image width).
 Flat 2D, no shading, no shadow. Pure white background (#FFFFFF). No text. Square 1:1 image.
 ```
 Tay / chân / thân (một đoạn):
@@ -145,7 +145,7 @@ Tay / chân / thân (một đoạn):
 Using the attached reference image of Max, draw ONLY his {PART}, as a separate cut-out piece for puppet animation: perfectly vertical and straight, same colors, same thick black outline, rounded ends so it can rotate at the joint. Nothing else in the image. Centered, generous margin.
 Pure white background (#FFFFFF). No shading, no text. Tall portrait image 1:3.
 ```
-`{PART}`: `upper arm in the blue #4A81B7 hoodie sleeve` / `forearm in the blue #4A81B7 hoodie sleeve with a ribbed cuff, ending in a white mitten hand with a small thumb` / `upper leg as a single thin black stick line` / `lower leg as a single thin black stick line ending in a small white oval shoe seen from the front` / `torso in the blue #4A81B7 hoodie with folded hood collar, white V neckline, two drawstrings and kangaroo pocket, no arms, no head, no legs`.
+`{PART}`: `body: one plain blue #3D73B1 rounded egg / pear shape with a thin black outline, no arms, no head, no legs` (bộ phận duy nhất thật sự cần Muse vẽ). Tay / chân là nét que và bàn tay / bàn chân là bầu dục trắng — đơn giản tới mức code vẽ được trực tiếp, không cần ảnh; nếu vẫn muốn ảnh thì `{PART}` = `upper arm as a single thin black stick line` / `forearm as a single thin black stick line ending in a small white vertical oval hand` / `upper leg as a single thin black stick line` / `lower leg as a single thin black stick line ending in a small white horizontal oval foot`.
 
 Mắt theo biểu cảm (cùng khung với đầu, để chồng khít):
 ```text

diff --git a/CLAUDE.md b/CLAUDE.md
@@ -2,7 +2,7 @@
 
 Repo tự động dựng video YouTube hoạt hình người que về **tâm lý học con người** cho người xem nước ngoài.
 
-**Định vị kênh: kênh TÂM LÝ HỌC, không phải kênh / chuyên gia tài chính.** Tiền bạc, mua sắm, đầu tư chỉ là một mảng ví dụ để giải thích thiên kiến và hành vi con người (bên cạnh quan hệ, thói quen, công việc, mạng xã hội…). Không đưa lời khuyên đầu tư, không gợi ý mua / bán mã nào, không dự đoán thị trường; người kể là người kể chuyện giáo dục; nhân vật: Max (người đi làm 25–30 tuổi, vẽ kiểu người que đầu tròn trắng, hoodie xanh `#4A81B7`; mẫu chốt `kho-mau/_mau-nhan-vat/max-sheet.png`) và Brainy (bộ não hồng, kể nghiên cứu) — **không có nhân vật chuyên gia / bác sĩ** (chính sách YouTube, xem docs/12). Khoảng 60–70% chủ đề là tâm lý đời sống chung, 30–40% là tâm lý tiền bạc. Python 3.11, gói `nguoique/`, lệnh `nq` (Pillow vẽ khung → ffmpeg; giọng Kokoro chạy local). Đọc `README.md` để nắm quy trình.
+**Định vị kênh: kênh TÂM LÝ HỌC, không phải kênh / chuyên gia tài chính.** Tiền bạc, mua sắm, đầu tư chỉ là một mảng ví dụ để giải thích thiên kiến và hành vi con người (bên cạnh quan hệ, thói quen, công việc, mạng xã hội…). Không đưa lời khuyên đầu tư, không gợi ý mua / bán mã nào, không dự đoán thị trường; người kể là người kể chuyện giáo dục; nhân vật: Max (người đi làm 25–30 tuổi, người que đầu bầu dục trắng, thân khối xanh `#3D73B1`, tay chân nét que; mẫu chốt `kho-mau/_mau-nhan-vat/max-sheet.png`) và Brainy (bộ não hồng, kể nghiên cứu) — **không có nhân vật chuyên gia / bác sĩ** (chính sách YouTube, xem docs/12). Khoảng 60–70% chủ đề là tâm lý đời sống chung, 30–40% là tâm lý tiền bạc. Python 3.11, gói `nguoique/`, lệnh `nq` (Pillow vẽ khung → ffmpeg; giọng Kokoro chạy local). Đọc `README.md` để nắm quy trình.
 
 ## Ngôn ngữ
 - **Trả lời người dùng bằng tiếng Việt.** Tài liệu, thông báo CLI, tên lệnh: tiếng Việt.

diff --git a/kho-mau/_mau-nhan-vat/README.md b/kho-mau/_mau-nhan-vat/README.md
@@ -1,6 +1,6 @@
 # Mẫu nhân vật
 
-**ĐÃ CHỐT LẠI (2026-11-14, người dùng chọn)**: `max-sheet.png` — Max là **người que đầu tròn trắng, hoodie xanh `#4A81B7`** (mũ gập quanh cổ, cổ V trắng, hai dây rút, túi kangaroo), tay găng trắng, chân que, giày bầu dục trắng; mắt bầu dục đen nhỏ, lông mày nét mảnh. Bảng này thay hoàn toàn bản chibi hoodie cam V1 + V2 bên dưới. Mô tả tiếng Anh dùng cho Muse / Gemini: `gui-muse/CHARACTER-BRIEF.md`.
+**ĐÃ CHỐT LẠI (2026-11-14, người dùng chọn)**: `max-sheet.png` — Max là **người que đầu bầu dục trắng, thân một khối xanh `#3D73B1`** hình quả trứng (không chi tiết quần áo), **tay và chân đều là nét que**, bàn tay / bàn chân bầu dục trắng; mắt bầu dục đen nhỏ, lông mày nét mảnh. Cùng ngày đã thử bản hoodie xanh `#4A81B7` có tay áo, rồi bỏ vì tay áo khó làm cử động. Bảng này thay hoàn toàn bản chibi hoodie cam V1 + V2 bên dưới. Mô tả tiếng Anh dùng cho Muse / Gemini: `gui-muse/CHARACTER-BRIEF.md`.
 
 `V1-max.png`, `V2-max.png` và phần ghi chép dưới đây giữ lại làm lịch sử, **không dùng làm tham chiếu nữa**.
 
